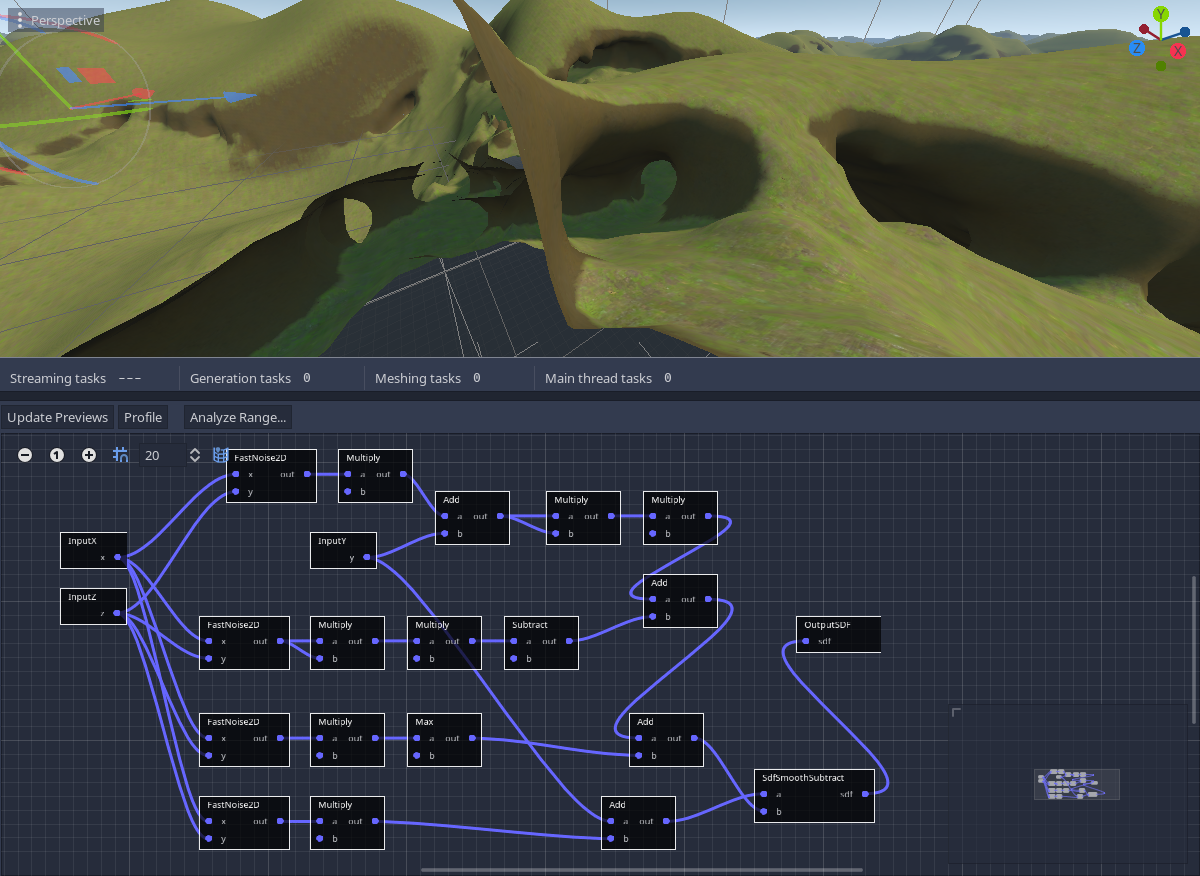
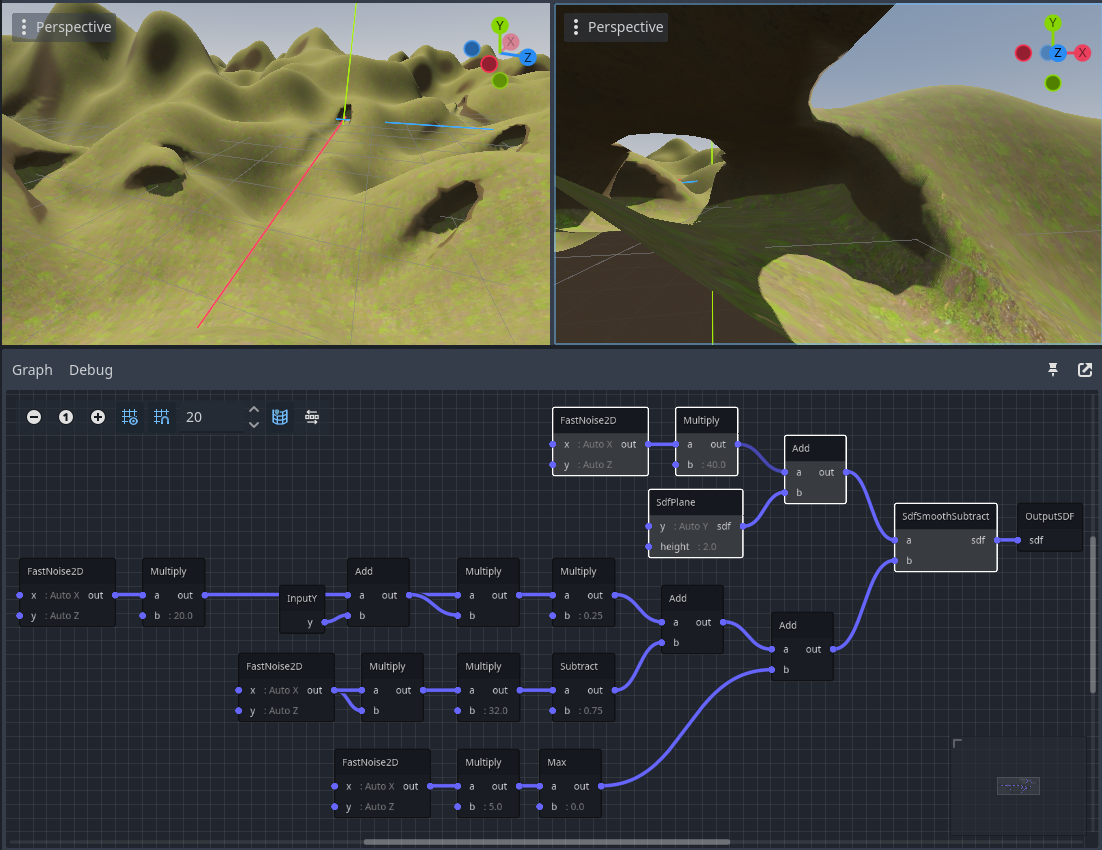
Update some graph editor screenshots, tweak code a bit

diff --git a/doc/source/generators.md b/doc/source/generators.md
@@ -96,15 +96,15 @@ By default, the `Add` node does nothing because its `b` port is not connected to
 
 (note: I used `Add` with a negative value for `b`, but you can also use a `Subtract` node to get the same result).
 
+Making a flat plane also has a shortcut node, `SdfPlane`, which outputs the SDF of a flat plane in one go (equivalent to `y - height`).
+
 #### Noise
 
 A flat plane is simple but a bit boring, so one typical way to generate a terrain is adding good old fractal noise. You can do this in 2D (heightmap) or 3D (volumetric).
 The 2D approach is simpler, as we only need to take our previous setup, and add 2D noise to the result. Also, since noise is generated in the range [-1 to 1], we also need a multiplier to make it larger (`sdf = y - height + noise2d(x, y) * noise_multiplier`).
 
-There are several types of noise available, each with their own parameters. At time of writing, `FastNoise2D` noise is the best option. `Noise2D` works too but it is slower and more limited (it uses Godot's `OpenSimplexNoise` class).
-
-!!! note
-    After you create this node, a new `FastNoiseLite` resource must be created in its parameters. If that resource is not setup, an error will occur and no voxels will be generated.
+There are several types of noise available, each with their own parameters. At time of writing, `FastNoise2D` noise is the best option. `Noise2D` works too but it is slightly slower (in particular when using Voxel Tools as a GDExtension).
+After you create this node, a new `FastNoiseLite` resource must be created in its parameters.
 
 ![Voxel graph 2D noise](images/voxel_graph_noise2d.webp)
 
@@ -112,12 +112,12 @@ There are several types of noise available, each with their own parameters. At t
 
 ![Voxel graph 3D noise](images/voxel_graph_noise3d_not_expanded.webp)
 
-You might notice that despite it being 3D, it still appears to produce a heightmap. That's because the addition of `Y` in the graph is gradually offsetting noise values towards higher and higher values when going towards the sky, which makes the surface fade away quickly. So if we multiply `Y` with a small value, it will increase slower, letting the 3D noise expand more (`sdf = y * height_multiplier - height + noise3d(x, y, z)`):
+You might notice that despite it being 3D, it still appears to produce a heightmap. That's because the addition of `Y` in the graph is gradually offsetting noise values towards higher and higher values when going towards the sky, which makes the surface fade away quickly. We can either multiply `Y` with a value smaller than 1, or we can increase the amplitude of the noise (`sdf = y - height + amplitude * noise3d(x, y, z)`):
 
 ![Voxel graph 3D noise expanded](images/voxel_graph_noise3d_expanded.webp)
 
 !!! note
-    Some nodes have default connections. For example, with 3D noise, if you don't connect inputs, they will automatically assume (X,Y,Z) voxel position by default. If you need a specific constant in an input, this behavior can be opted out by turning off `autoconnect_default_inputs` in the inspector.
+    Some nodes have default connections. For example, with 3D noise, if you don't connect inputs, they will automatically assume (X,Y,Z) voxel position by default (see "Auto" labels). If you need a constant in an input, this behavior can be opted out by turning off `autoconnect_default_inputs` in the inspector, or connecting another node.
 
 #### Planet
 
@@ -129,7 +129,9 @@ We cannot really use 2D noise here, so we can add 3D noise as well:
 
 ![Voxel graph sdf sphere with noise](images/voxel_graph_sphere_with_noise.webp)
 
-However you might still want a heightmap-like result. One way to do this is to feed the 3D noise normalized coordinates, instead of global ones. Picking a ridged fractal can also give an eroded look, although it requires to negate the noise multiplier node to invert its distance field (if we leave it positive it will look puffed instead of eroded).
+If you increase 3D noise amplitude like before, you might notice floating chunks. You should be able to tune the right amount to make them less likely. Another way is to use a height-based approach: project coordinates on the sphere, instead of global 3D coordinates. Then treat the output of noise as a height.
+
+Picking a ridged fractal can also give an eroded look, although it requires to negate the noise to invert its distance field (if we leave it positive it will look puffed instead of eroded).
 
 ![Voxel graph sdf sphere with height noise](images/voxel_graph_sphere_with_noise2.webp)
 
